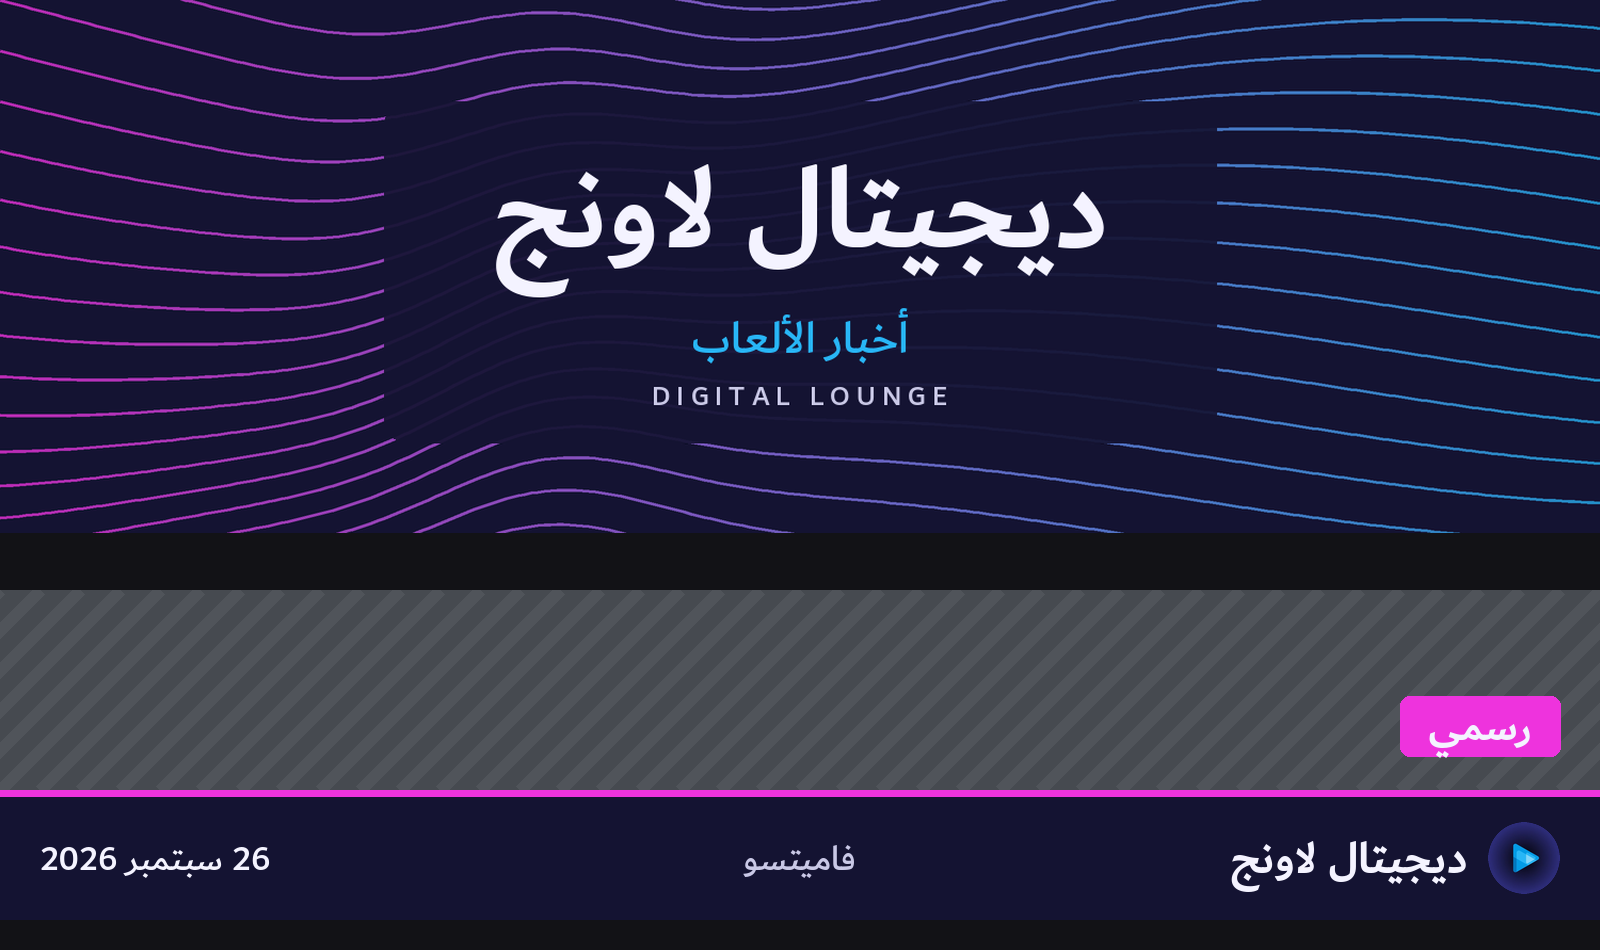
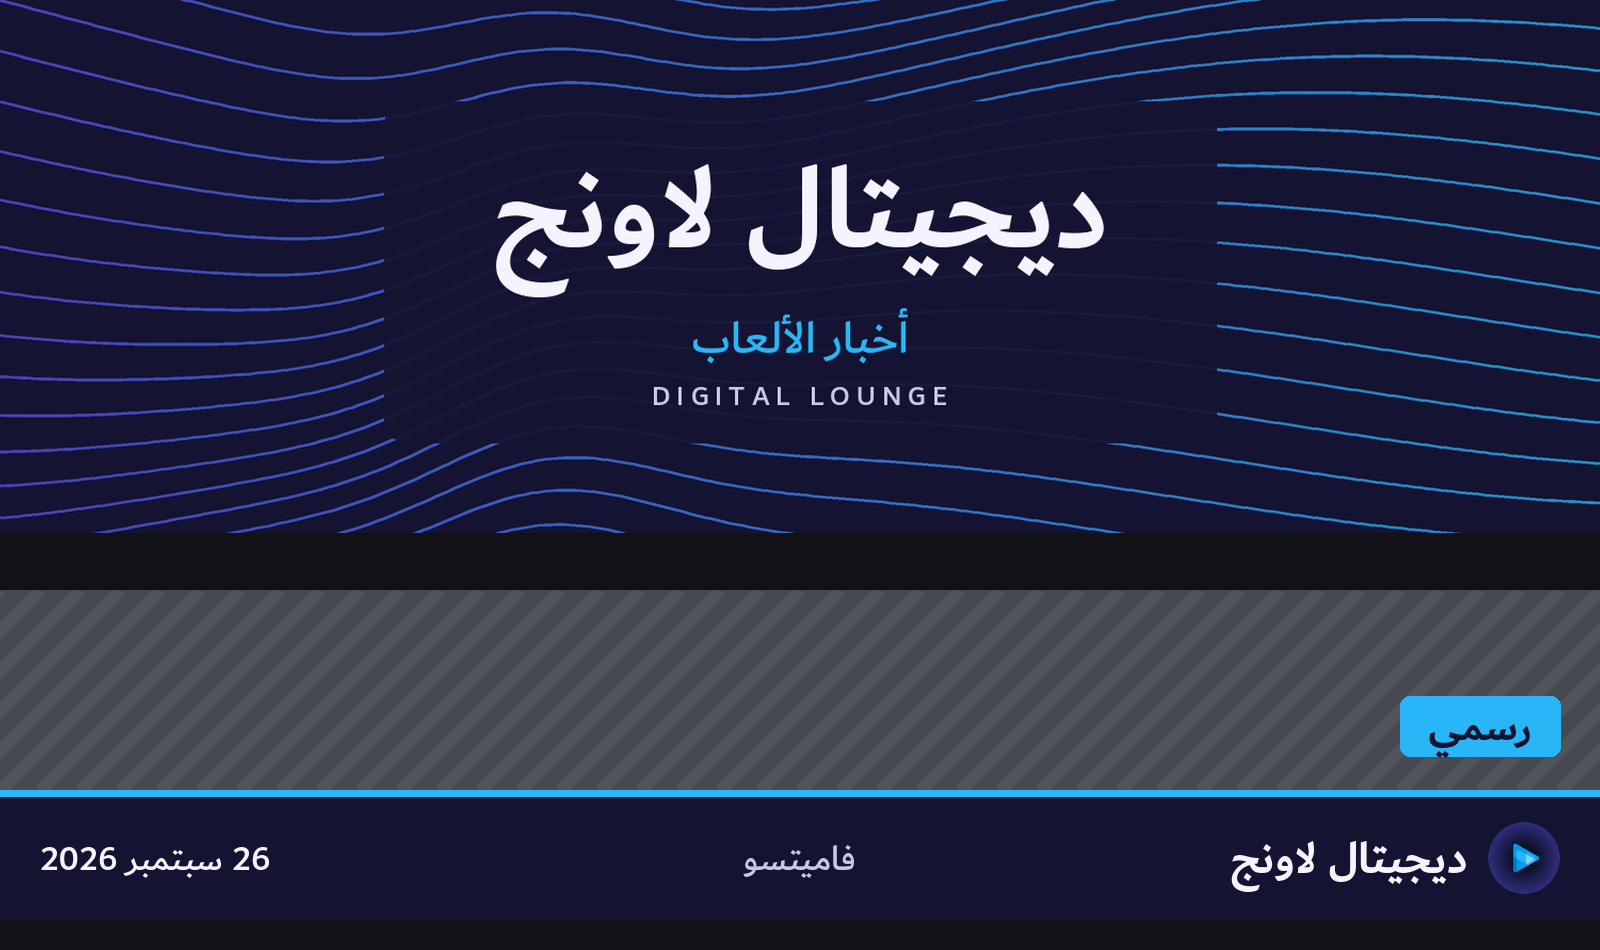
Digital Lounge: drop magenta, azure and bright indigo from the mark
Claude-Session: https://claude.ai/code/session_015qYCrUw9vCB6HsZeWYmnB1

diff --git a/CLAUDE.md b/CLAUDE.md
@@ -71,8 +71,10 @@ post is written for its own readers.
 
 Arabic posts are written for Arabic readers, never translated from the
 English post. The two brands never share a mark; their palettes are kin
-(Mohammad, 26 Sep 2026), so magenta, which DXB-KNIGHT never uses, is
-what marks a Digital Lounge card.
+(Mohammad, 26 Sep 2026). What tells a Digital Lounge card apart is the
+indigo ground, the play mark, Dubai type and the right-to-left footer.
+No pink or magenta anywhere on it: to a Gulf reader it reads as girlish
+or for kids (Mohammad, 26 Sep 2026).
 
 Settled 26 Sep 2026: the name is Digital Lounge, ديجيتال لاونج (display
 name "ديجيتال لاونج | أخبار الألعاب"), and it stays; renaming on the spot
@@ -94,17 +96,17 @@ Brand kit (Mohammad, 26 Sep 2026):
 - Mark: the existing azure play button on an indigo radial ground,
   `templates/digi-mark.jpg` (400x400, from his upload). It stays.
 - Palette, sampled from the mark and the old banner: ground `#141332`,
-  panel `#1E1D4A`, edge `#3F3DA8`, azure `#28B6F6`, magenta `#EE33DD`,
-  ink `#F4F3FF`, body `#C9C8E6`. Magenta carries chips and rules.
+  panel `#1E1D4A`, edge `#3F3DA8`, azure `#28B6F6`, bright indigo
+  `#5552E0`, ink `#F4F3FF`, body `#C9C8E6`. Azure carries chips (ground
+  text on azure) and the rule under the media.
 - Font: Dubai (Light, Regular, Medium, Bold) for Arabic and Latin. Its
   EULA allows commercial use but forbids redistribution and this repo is
   public, so the TTFs never go in git: they live in
   `/root/fonts-private/dubai/`, which a new container does not have. Ask
   Mohammad to upload `dubai.zip` again and unzip it there.
-- Banner: not yet agreed. Proposed: the old wave lines redrawn, magenta
-  left to azure right, with the name in Dubai on a dark plate
-  (`live/2026-09-26/digital-lounge/digi2-banner.png`, drawn by
-  `boards2.py`).
+- Banner: not yet agreed. Proposed: the old wave lines redrawn, bright
+  indigo left to azure right, with the name in Dubai on a dark plate
+  (`live/2026-09-26/digital-lounge/digi3-banner.png`).
 
 ## Always ask for Mohammad's take before building a card
 
